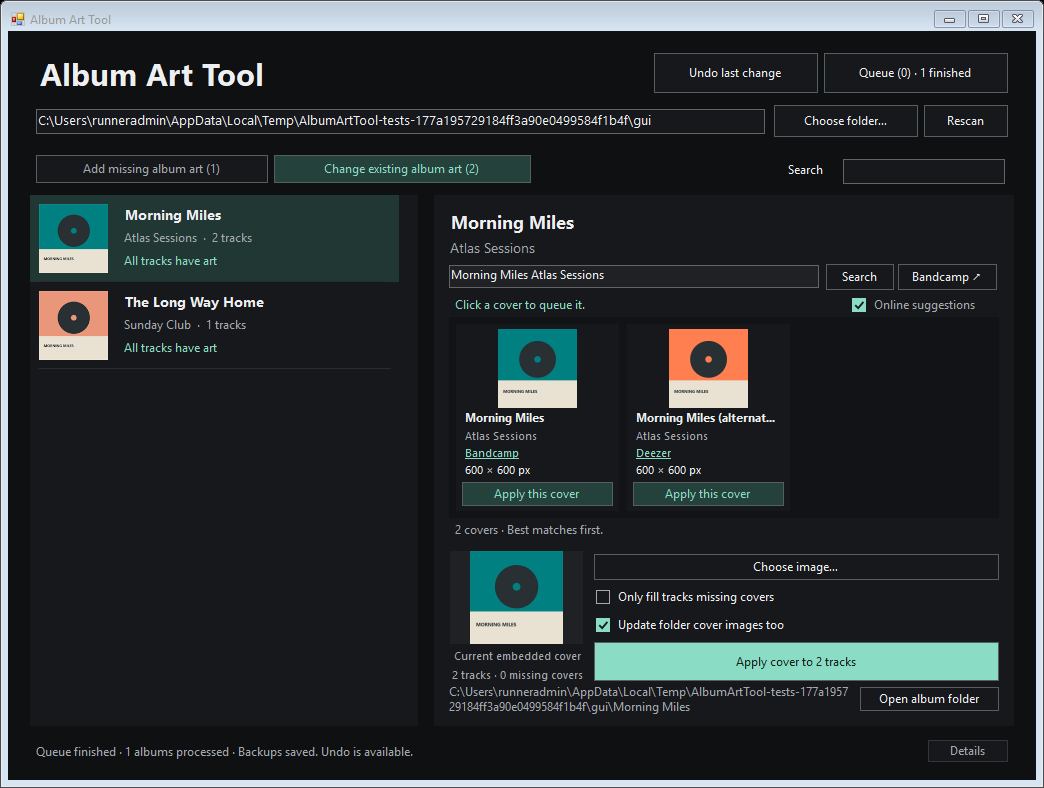
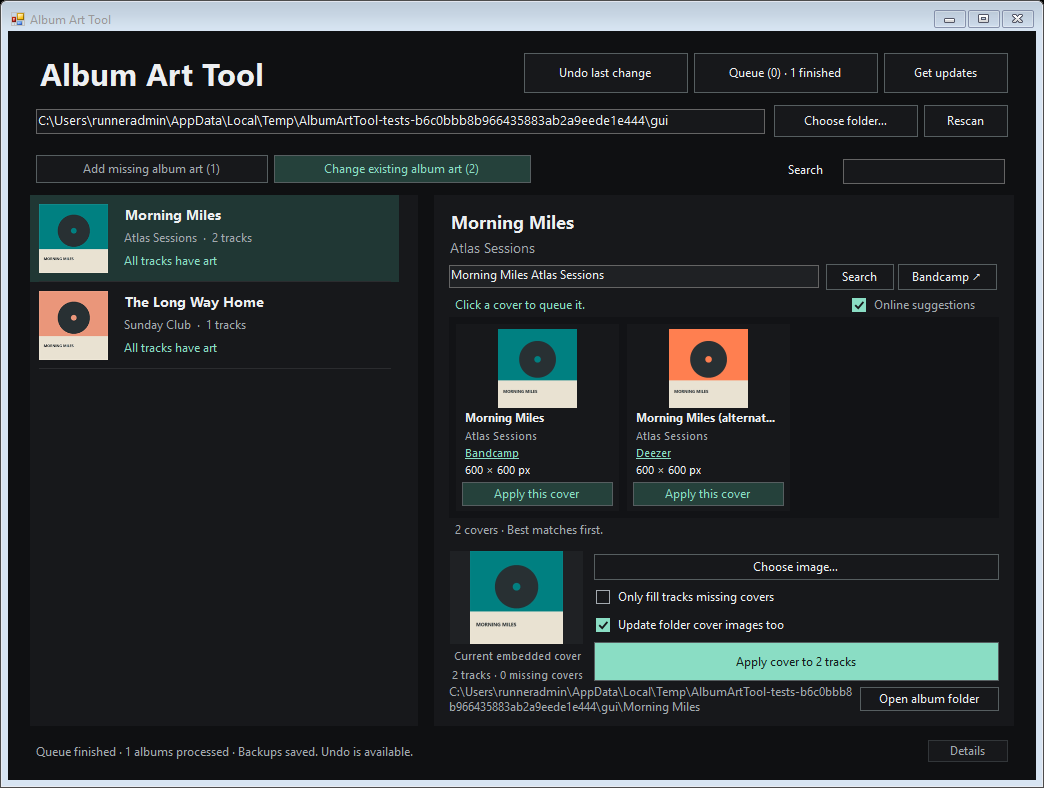
[release] Publish v1.3.0 with one-click GitHub app updates

diff --git a/tests/UpdateTests.cs b/tests/UpdateTests.cs
@@ -169,6 +169,17 @@ internal static partial class Tests
     [DllImport("user32.dll")] private static extern bool EnumChildWindows(IntPtr parent, ChildWindowCallback callback, IntPtr parameter);
     [DllImport("user32.dll", CharSet = CharSet.Unicode)] private static extern IntPtr SendMessage(IntPtr window, uint message, int length, StringBuilder text);
 
+    private sealed class UpdateGateHandler : HttpMessageHandler
+    {
+        internal bool Cancelled;
+        protected override async Task<HttpResponseMessage> SendAsync(HttpRequestMessage request, CancellationToken token)
+        {
+            try { await Task.Delay(30000, token); }
+            catch (OperationCanceledException) { Cancelled = true; throw; }
+            return new HttpResponseMessage(HttpStatusCode.ServiceUnavailable);
+        }
+    }
+
     private static async Task UpdateGuiTest(MainForm form, string output)
     {
         var button = Descendants(form).OfType<Button>().Single(b => b.Text == "Get updates");
@@ -184,5 +195,18 @@ internal static partial class Tests
         { dialog.DrawToBitmap(bitmap, new Rectangle(Point.Empty, bitmap.Size)); bitmap.Save(Path.Combine(output, "app-updates.png"), ImageFormat.Png); }
         dialog.Close();
         Assert(form.CanInstallUpdate, "idle app can hand off an update");
+        form.CreateUpdateService = () => new UpdateService(new FakeHandler(_ => new HttpResponseMessage(HttpStatusCode.ServiceUnavailable)));
+        await form.GetUpdatesAsync();
+        dialog = form.OwnedForms.Single(f => f.Text == "Get updates");
+        Assert(form.Enabled && Descendants(dialog).OfType<Label>().Any(l => l.Text.StartsWith("Update could not finish.")), "offline update error keeps the app usable");
+        dialog.Close();
+        var gate = new UpdateGateHandler();
+        form.CreateUpdateService = () => new UpdateService(gate);
+        var checking = form.GetUpdatesAsync();
+        await Task.Delay(30);
+        Assert(!checking.IsCompleted && form.Enabled, "update request runs without blocking album browsing");
+        form.OwnedForms.Single(f => f.Text == "Get updates").Close();
+        await checking;
+        Assert(gate.Cancelled && form.Enabled, "closing update window cancels the active network request");
     }
 }

diff --git a/src/AlbumArtTool/MainForm.Updates.cs b/src/AlbumArtTool/MainForm.Updates.cs
@@ -13,13 +13,15 @@ namespace AlbumArtTool
     {
         private readonly Button getUpdates = Button("Get updates");
         private Form updateWindow;
-        private bool installingUpdate, restartForUpdate;
+        private bool checkingUpdate, installingUpdate, restartForUpdate;
         internal Func<UpdateService> CreateUpdateService = () => new UpdateService();
         internal bool CanInstallUpdate => !busy && !writing && !queueRunning && pending == null;
 
         internal async Task GetUpdatesAsync()
         {
             if (updateWindow != null && !updateWindow.IsDisposed) { updateWindow.Activate(); return; }
+            if (checkingUpdate) return;
+            checkingUpdate = true;
             var dialog = updateWindow = new Form { Text = "Get updates", ClientSize = new Size(530, 222), MinimumSize = new Size(530, 260),
                 StartPosition = FormStartPosition.CenterParent, BackColor = Surface, ForeColor = Ink, Font = new Font("Segoe UI", 10),
                 MaximizeBox = false, MinimizeBox = false, AutoScaleMode = AutoScaleMode.Dpi };
@@ -95,6 +97,7 @@ namespace AlbumArtTool
             }
             finally
             {
+                downloading = false; checkingUpdate = false;
                 if (!handedOff && directory != null) UpdateInstaller.CleanWorkspace(directory);
                 if (!IsDisposed && !handedOff) { installingUpdate = false; Enabled = true; }
                 if (!dialog.IsDisposed)

diff --git a/README.md b/README.md
@@ -38,6 +38,8 @@ A temporary copy of the current app waits for the running EXE to exit, verifies 
 
 **Install v1.3.0 manually once to get the button** if you are upgrading from an earlier release. After that, use **Get updates** for future releases. No music files are sent to GitHub.
 
+[Update window preview](docs/updates.png)
+
 ## Online cover search
 
 - Only the selected album is searched. The query starts as `album title + artist name`; you can edit it and press Enter or Search if tags are incomplete or an edition needs clarification.
